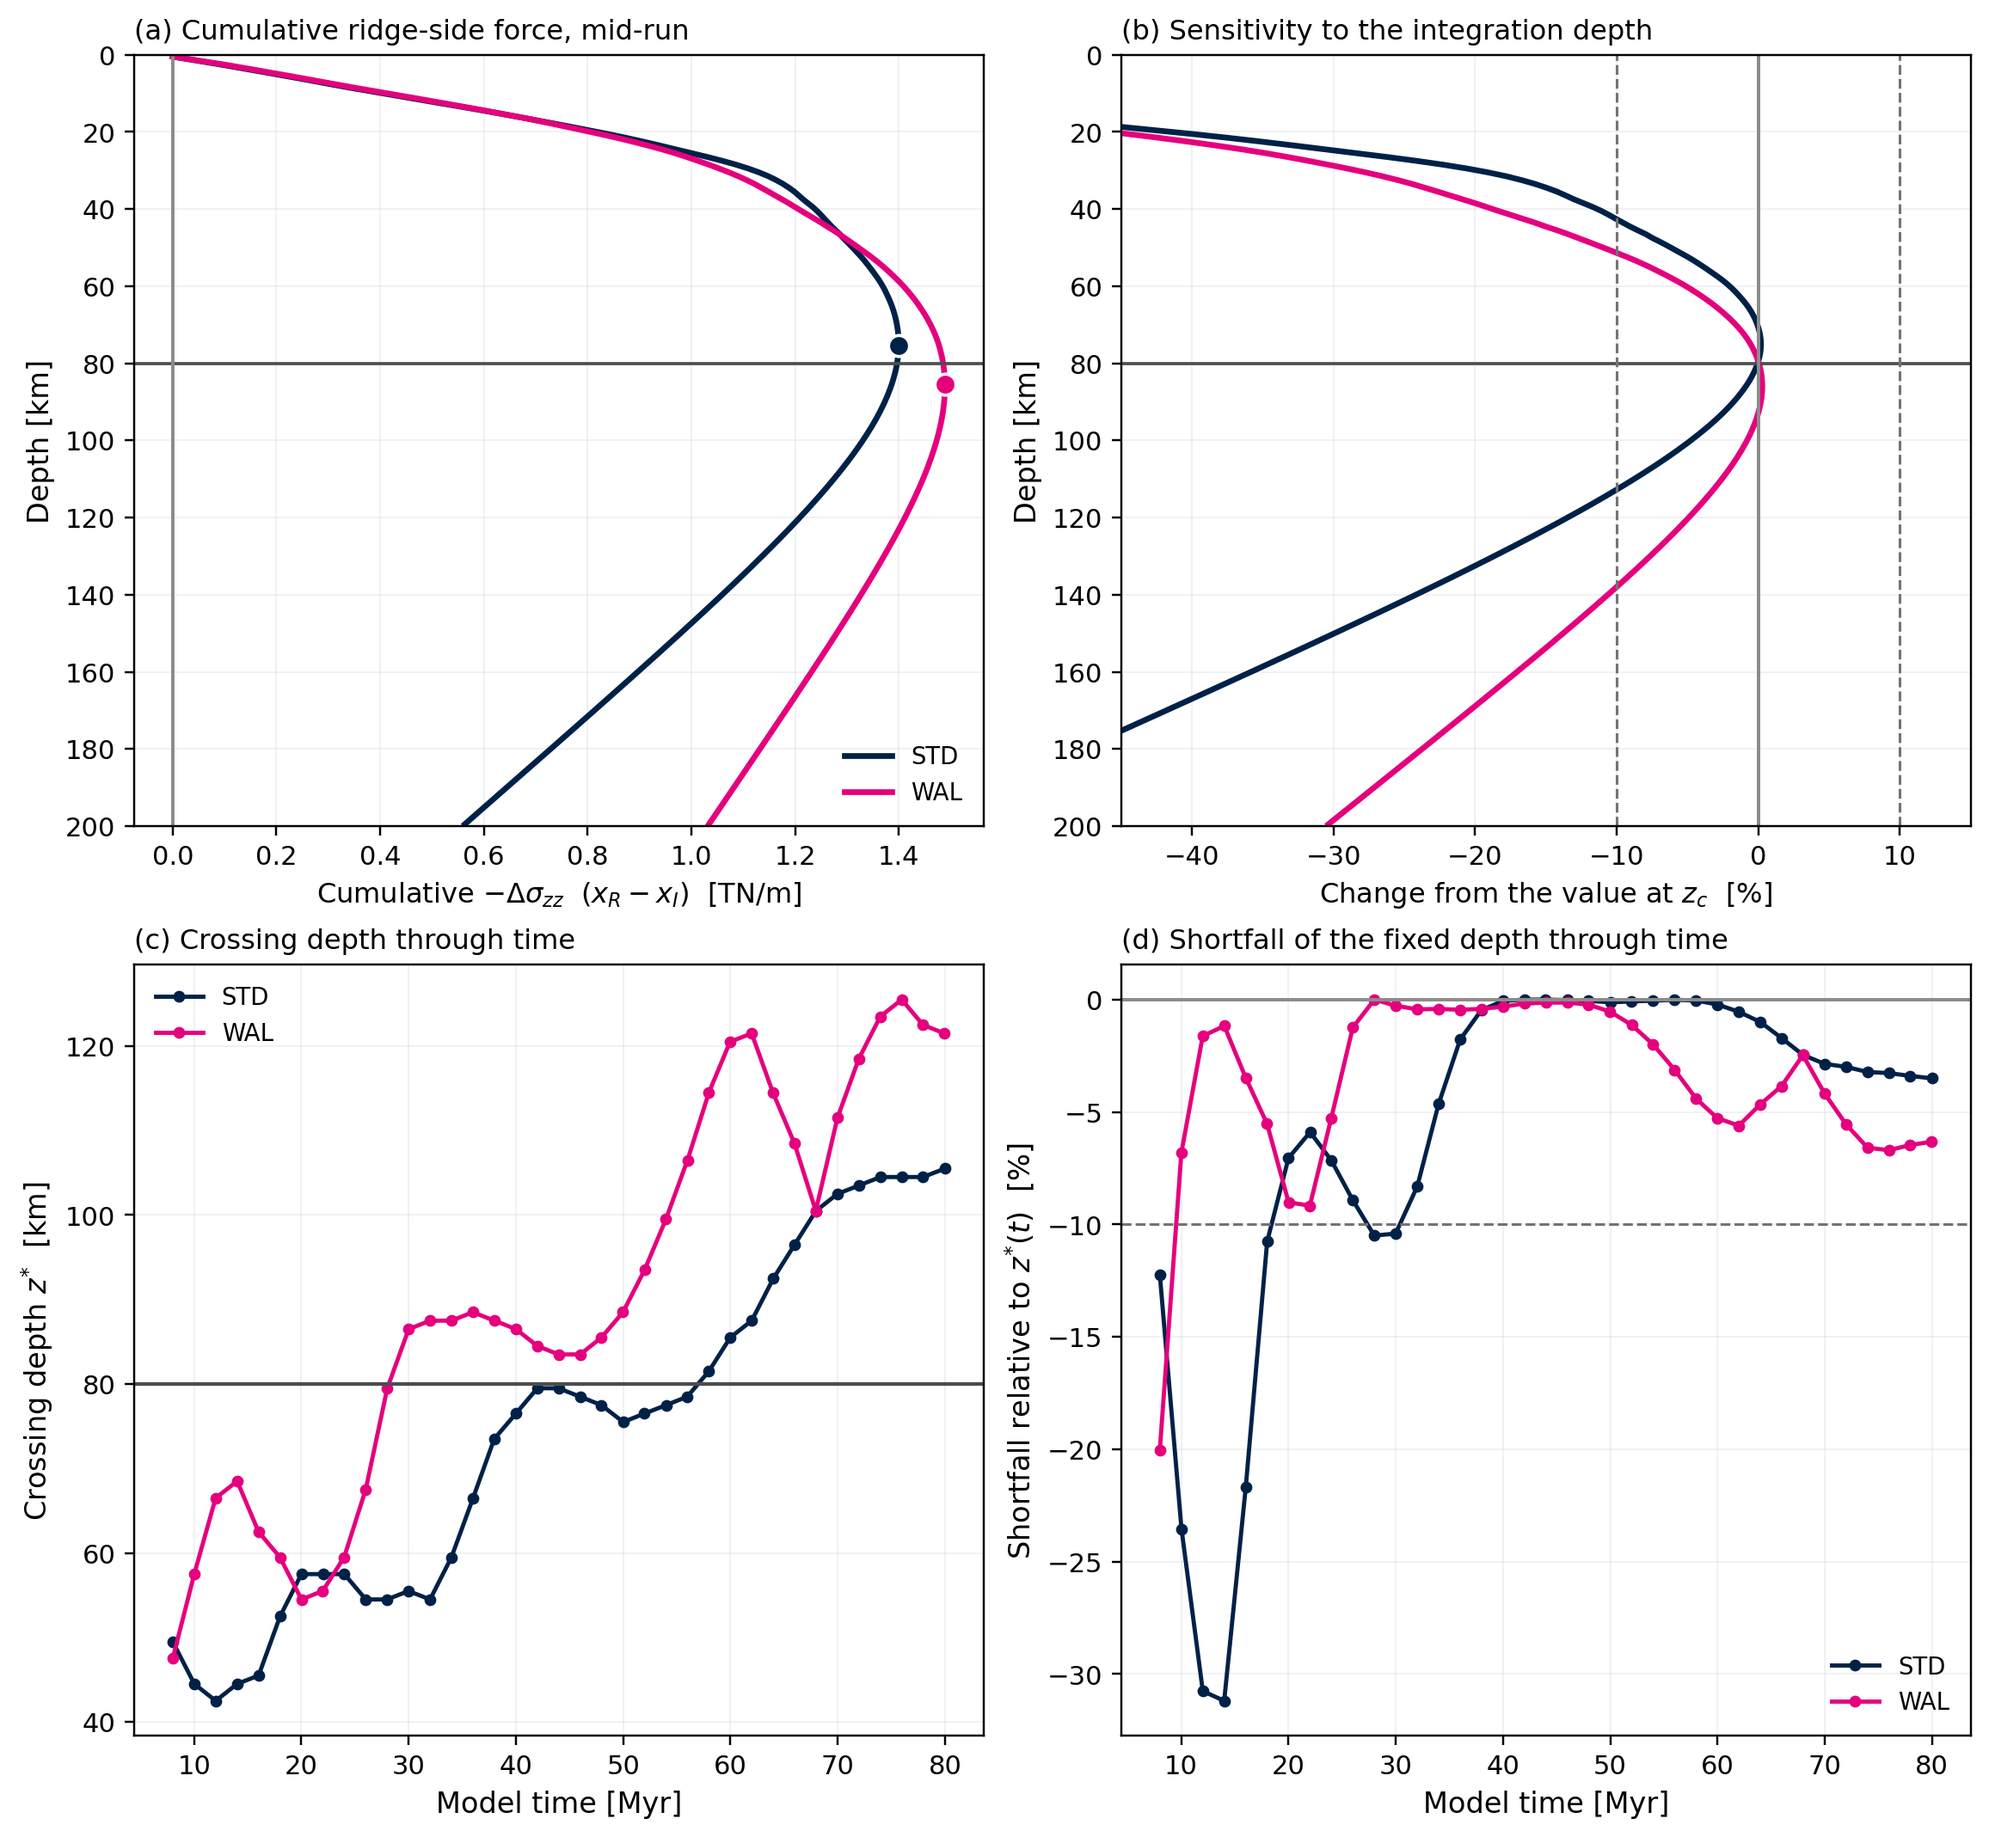
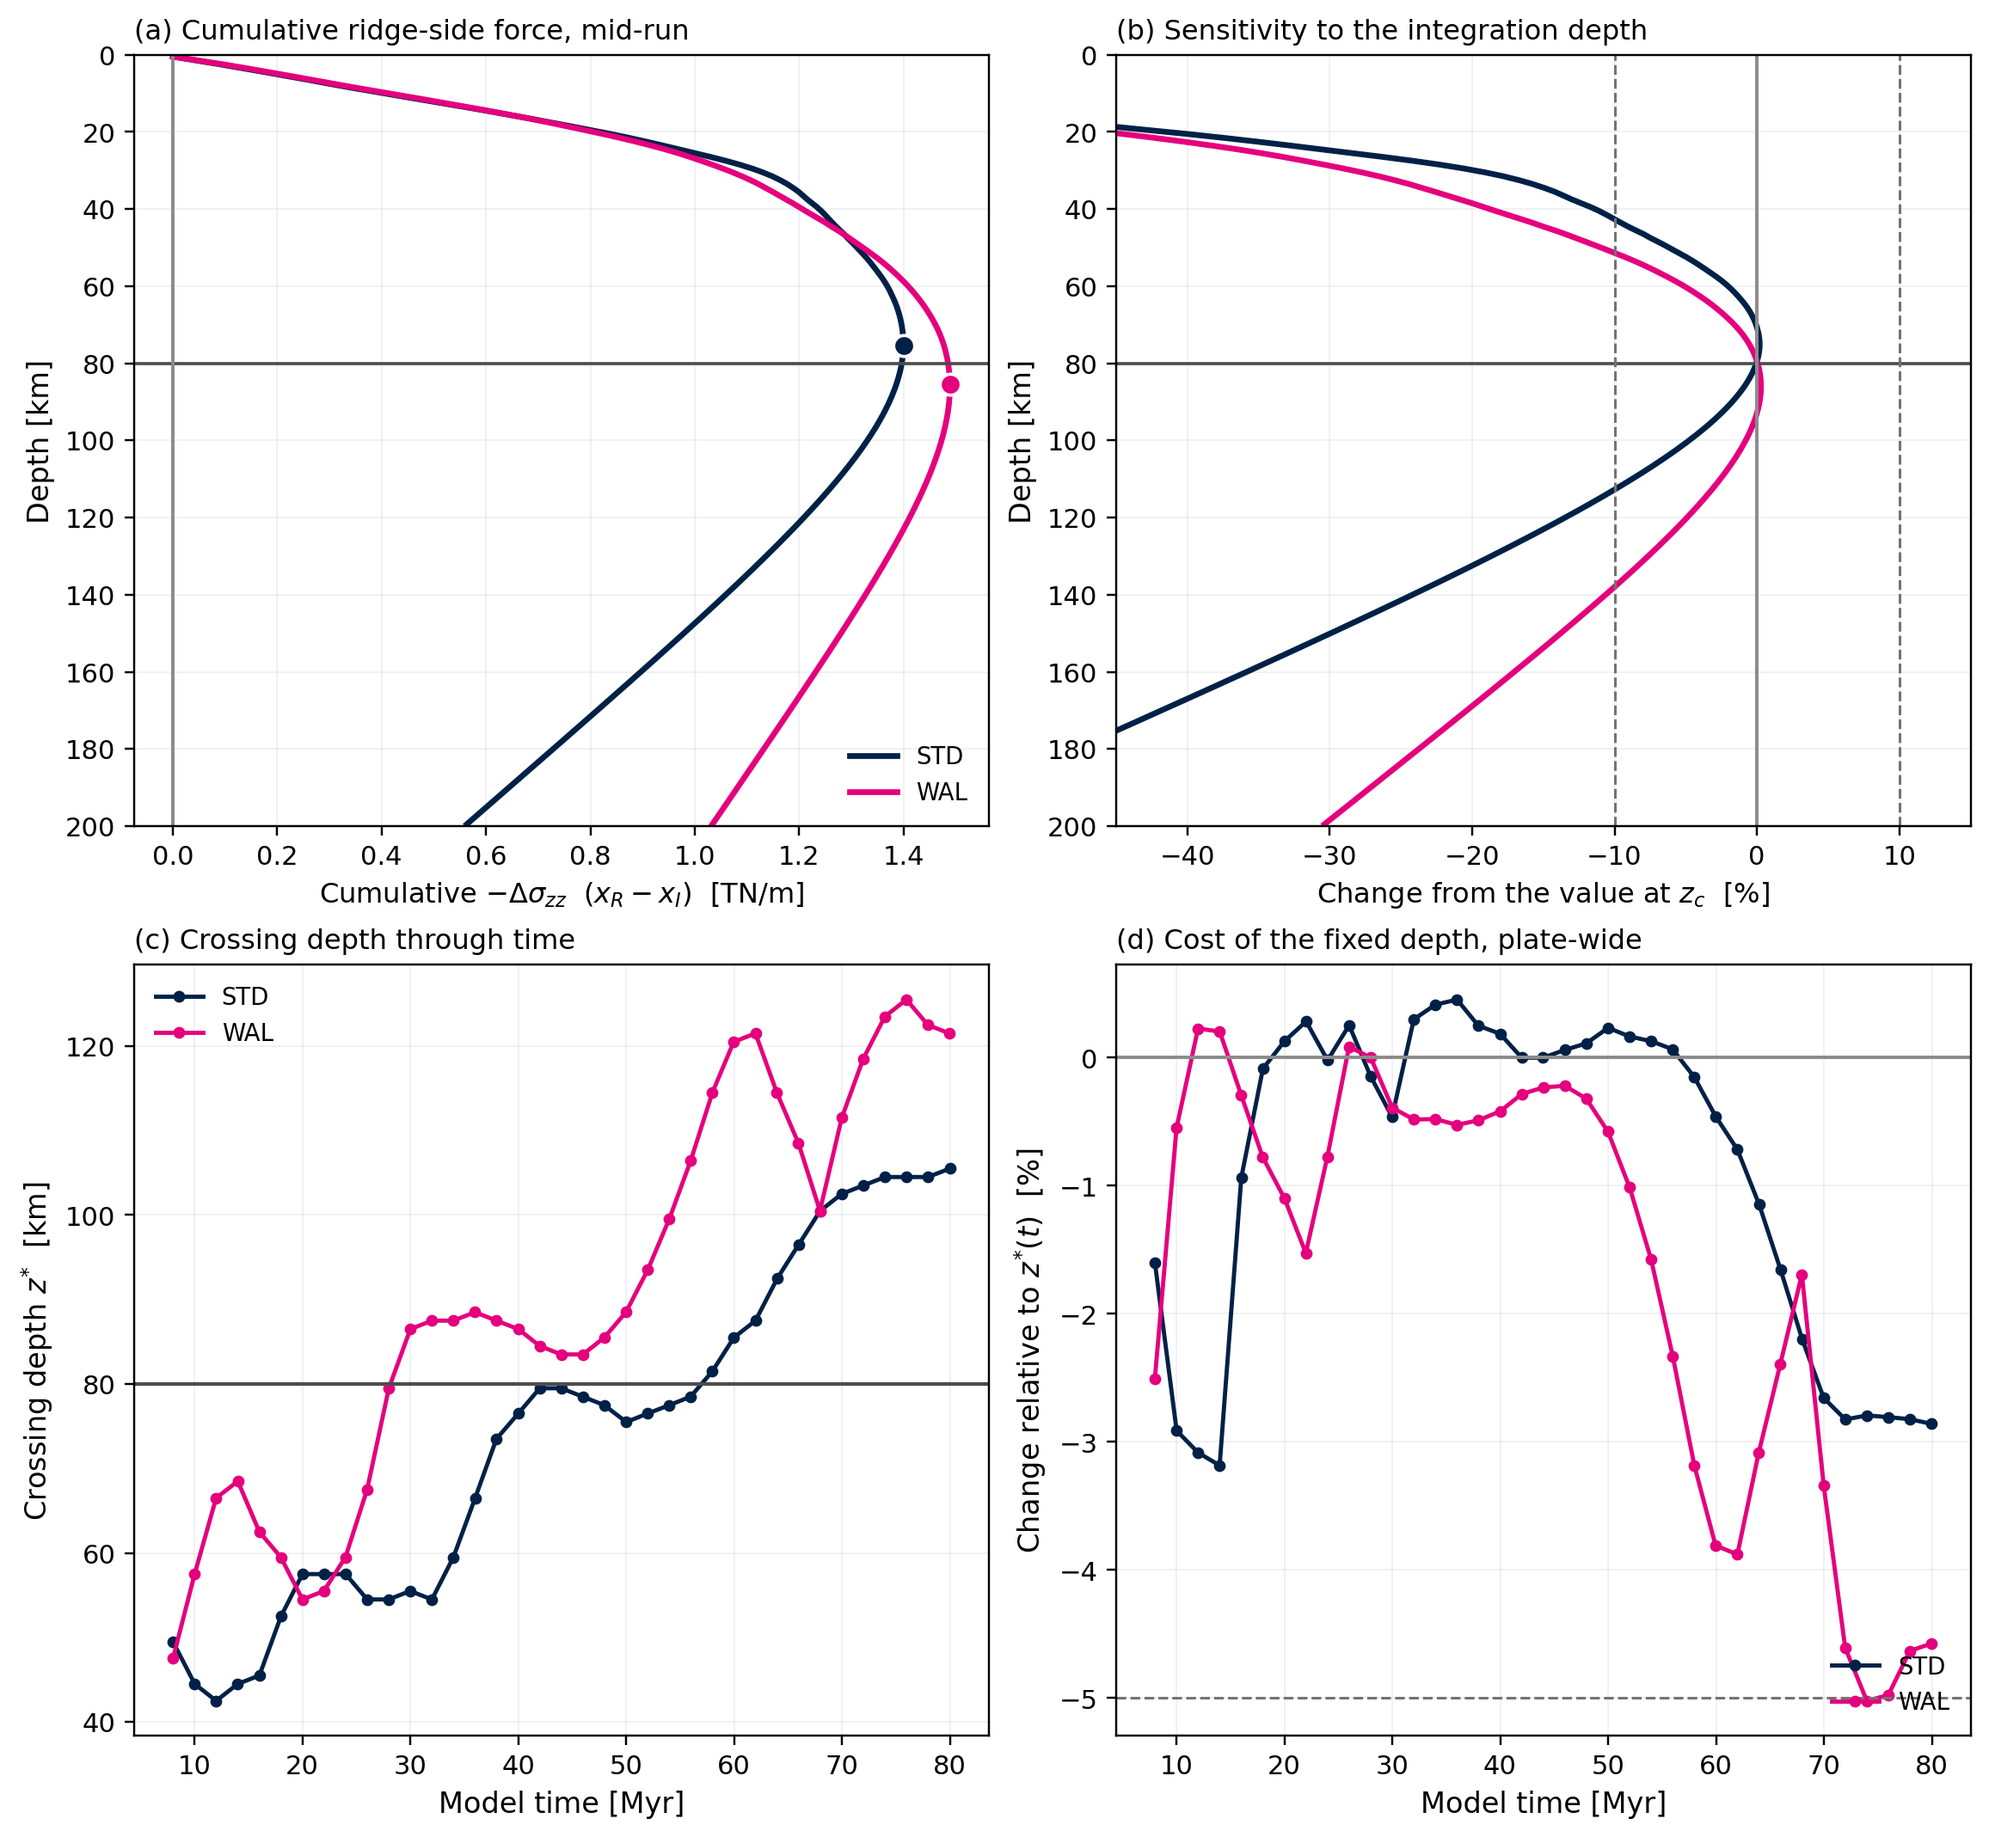
S8 panel (d): cost measured on the plate-wide force
z* stays the ridge-side crossing; the cost of the fixed z_c is now
measured against the whole trench-to-ridge force (Dan, 2026-10-14). The
mismatch is deliberate. The crossing exists because the ridge-side term
reverses sign below the plate -- the trench side has no turnover, it
closes -- so a crossing defined on the sum mixes a quantity that has one
with a quantity that does not. But what the balance reports, and what a
reader is anxious about, is the plate-wide Delta GPE*, so that is what
the error belongs against.

  ridge side only   median -3.0 / -3.1 %   worst -31 / -20 %
  plate-wide        median -0.1 / -0.8 %   worst -3.2 / -5.0 %

The 31 % was real but inflated: the ridge-side force is 0.70 TN/m at
12-14 Myr against 1.2 later, so a 0.22 TN/m error reads as a third of it.

The axis no longer says shortfall, because the sign goes both ways --
early, z* sits near 42 km while the trench side is still accumulating,
so stopping there gives LESS force than z_c does (positive at 38 % of
STD steps, 8 % of WAL).

Checked and not adopted: defining z* plate-wide as well. It shifts z* by
a near-uniform +6 to +8 km, which is harmless in itself, but it moves
the joint rms optimum from 80 to 90 km and would cost the justification
for the depth every reported force already uses.

diff --git a/scripts/fig_ridge_cumulative.py b/scripts/fig_ridge_cumulative.py
@@ -117,13 +117,33 @@ def main():
         col = C_MODEL[key]
 
         # ---- per snapshot: the crossing and the cost of 75 km there -----
+        # z* IS THE RIDGE-SIDE CROSSING, but the cost of the fixed depth is
+        # measured on the WHOLE TRENCH-TO-RIDGE force (Dan, 2026-10-14).
+        # Two reasons, and the mismatch is deliberate. The crossing exists
+        # BECAUSE the ridge-side term reverses sign below the plate; the
+        # trench side has no turnover of its own, it simply closes, so a
+        # crossing defined on the sum mixes a quantity that has one with a
+        # quantity that does not. But what the balance reports, and what a
+        # reader cares about, is the plate-wide Delta GPE*, so that is what
+        # the error should be quoted against.
+        # Measured: ridge-side-only gives a median cost of 3.0 / 3.1 % with
+        # excursions to 31 % (STD, 12-14 Myr) and 20 % (WAL, 8 Myr), driven
+        # by a small early denominator -- the ridge-side force is 0.70 TN/m
+        # there against 1.2 later. On the plate-wide force the same choice
+        # costs a median 0.1 / 0.8 % and never more than 3.2 / 5.0 %.
+        # ⚠ THE SIGN GOES BOTH WAYS, which is why this is not called a
+        # shortfall. Early, z* sits near 42 km while the trench side is
+        # still accumulating, so stopping there would give LESS force than
+        # z_c does: the value is positive at 38 % of STD steps and 8 % of
+        # WAL steps.
         zs, pen_pct = [], []
         for i in np.where(m)[0]:
-            cu = cum(c['p_R'][i], z)[keep]
+            cu = cum(c['p_R'][i], z)[keep]          # ridge side: sets z*
+            cw = -cum(c['p_T'][i], z)[keep] + cu    # plate-wide: sets the cost
             k = int(np.argmax(cu))
             zs.append(zk[k])
             izc = int(np.argmin(np.abs(zk - cpc.ZC_KM)))
-            pen_pct.append(100.0 * (cu[izc] - cu[k]) / cu[k])
+            pen_pct.append(100.0 * (cw[izc] - cw[k]) / cw[k])
         zs, pen_pct = np.array(zs), np.array(pen_pct)
 
         # ---- mid-run shape and its cost curve ---------------------------
@@ -186,11 +206,15 @@ def main():
     a_zstar.set_title('(c) Crossing depth through time',
                       fontsize=10.5, loc='left')
     a_tcost.axhline(0, color='0.55', lw=1.3)
-    for v in (-10,):
+    # THE -10 % GUIDE IS GONE. It was drawn when the cost was measured on
+    # the ridge side alone and reached 31 %; on the plate-wide force
+    # nothing comes within a factor of two of it, so it only pushed the
+    # data into the top third of the panel.
+    for v in (-5,):
         a_tcost.axhline(v, color='0.45', lw=1.0, ls='--')
-    a_tcost.set_ylabel(r'Shortfall relative to $z^{*}(t)$  [%]',
+    a_tcost.set_ylabel(r'Change relative to $z^{*}(t)$  [%]',
                        fontsize=11)
-    a_tcost.set_title('(d) Shortfall of the fixed depth through time',
+    a_tcost.set_title('(d) Cost of the fixed depth, plate-wide',
                       fontsize=10.5, loc='left')
 
     out = os.path.join(ROOT, 'figures', 'fig_ridge_cumulative.png')
